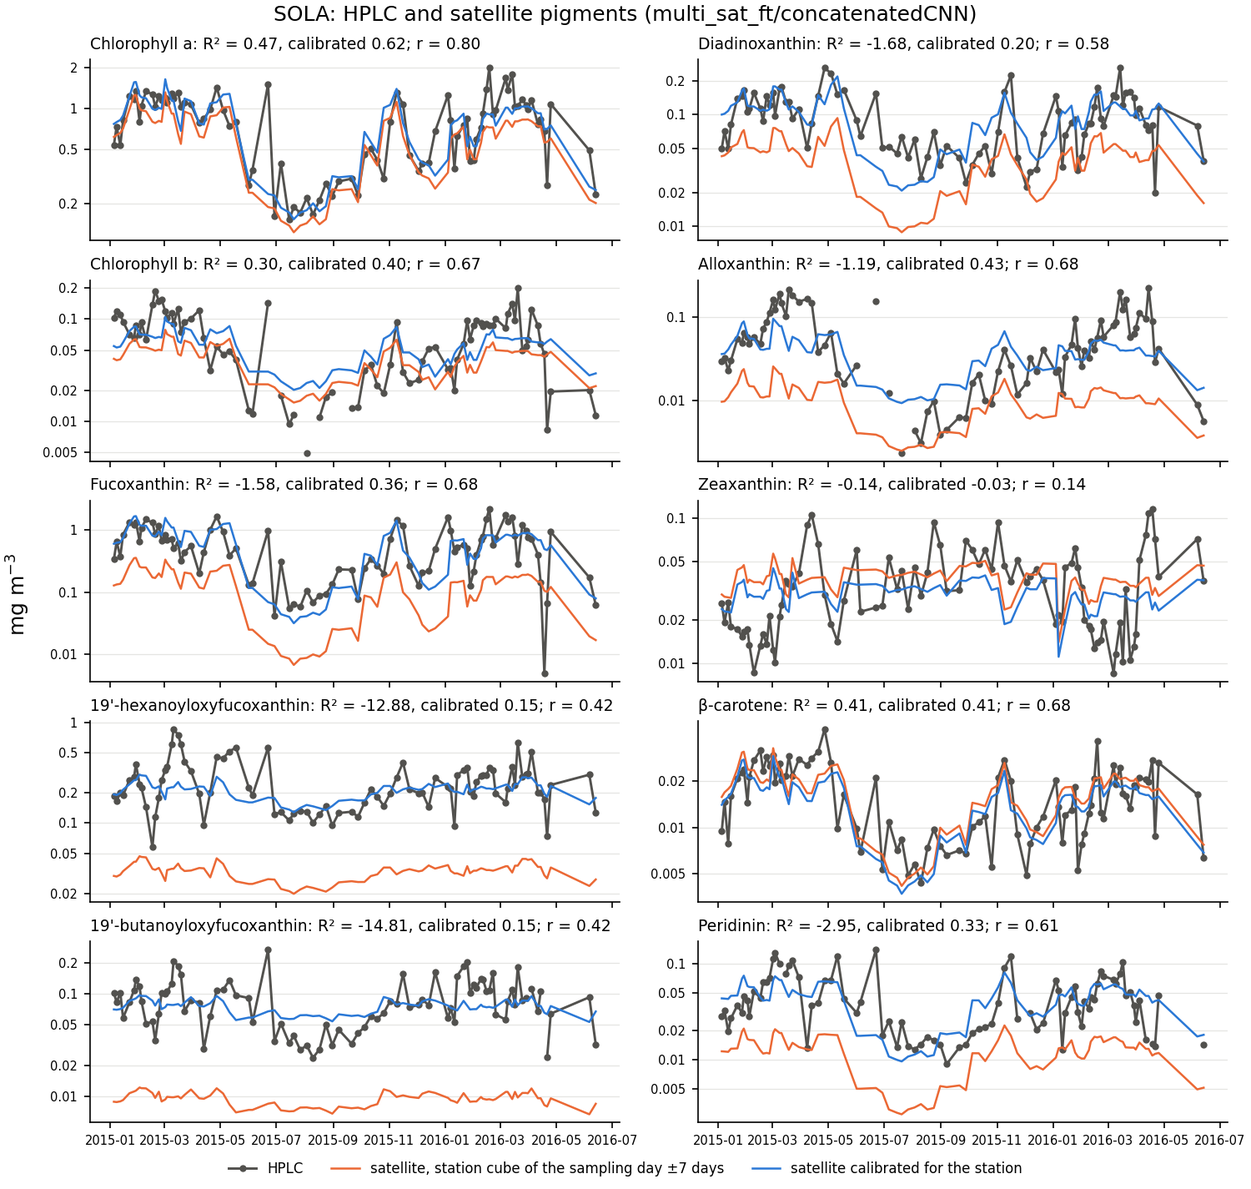
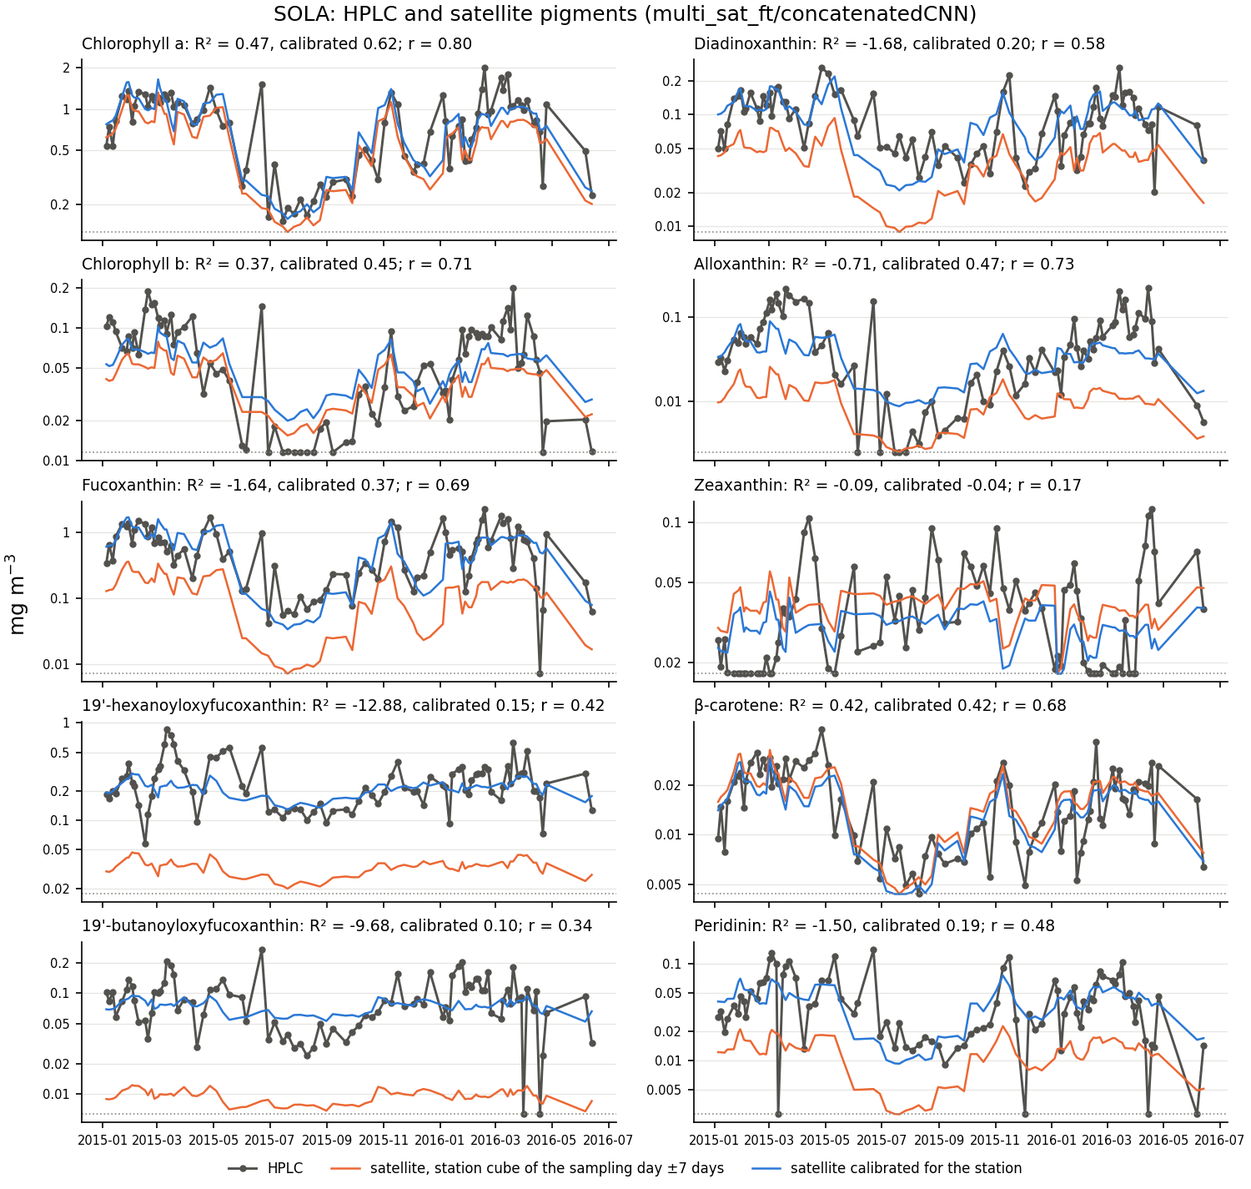
Set pigments below the satellite detection limit to it in the HPLC check

diff --git a/task1/scripts/hplc_check.py b/task1/scripts/hplc_check.py
@@ -11,6 +11,11 @@ Pearson r of ln(pigment), and MAPE and MPE (bias) of the concentrations, as in t
 Writes task1/data/hplc_check.csv and, for the model of the record, task1/figures/hplc_check.png
 (each pigment, all samples) and task1/figures/hplc_series_<station>.png (each pigment over time).
 
+Values below the detection limit of the satellite pigments, HPLC and satellite alike, are set to it
+before scoring: the limit of each pigment is the 5% quantile of the satellite pigments of the whole
+station record (stations_daily.nc of predict_pigments.py), the lowest values the satellite gives
+(task1/data/detection_limits.csv). It is far above the detection limit of HPLC.
+
 The bias of the model depends on the station, so the model of the record is also calibrated per
 station: each pigment times the median HPLC/satellite ratio of all the samples of the station
 (task1/data/station_factors.csv). The calibrated pigments are scored (on the samples the factors
@@ -31,6 +36,8 @@ from pigment_retrieval.predict.predict import Predictor, available_models  # noq
 
 DATA_DIR = Path("task2/PETRIMED/DATA")
 STATION_CUBES = Path("task1/data/station_matchups/datasets/optics.nc")
+STATION_PIGMENTS = Path("task1/data/pigments/stations_daily.nc")
+LIMITS = Path("task1/data/detection_limits.csv")
 OUTPUT = Path("task1/data/hplc_check.csv")
 FACTORS = Path("task1/data/station_factors.csv")
 FIGURES = Path("task1/figures")
@@ -65,6 +72,13 @@ def satellite_inputs(ids: pd.Index) -> xr.Dataset:
         return cube.load().to_dataset("variable").rename(BANDS)
 
 
+def detection_limits() -> pd.Series:
+    """Per pigment, the 5% quantile of the satellite pigments of the whole station record: the
+    lowest values the satellite gives, as the floor Task 1 applies to its Rrs and training pigments."""
+    with xr.open_dataset(STATION_PIGMENTS) as pigments:
+        return pd.Series({p: float(pigments[p].quantile(0.05)) for p in PAIRS}, name="limit")
+
+
 def scores(hplc: pd.DataFrame, predicted: pd.DataFrame) -> pd.DataFrame:
     """Per pigment: R^2 (coefficient of determination) and Pearson r of ln(pigment), MAPE and MPE
     (bias) of the concentrations in %, and the number of samples."""
@@ -78,8 +92,10 @@ def scores(hplc: pd.DataFrame, predicted: pd.DataFrame) -> pd.DataFrame:
     return table[["n", "R2", "r", "MAPE", "MPE"]]
 
 
-def plot_scatter(hplc: pd.DataFrame, predicted: pd.DataFrame, stations: pd.Series, title: str, path: Path) -> None:
-    """Predicted against HPLC pigments, one panel per pigment, coloured by station."""
+def plot_scatter(hplc: pd.DataFrame, predicted: pd.DataFrame, stations: pd.Series, limits: pd.Series, title: str,
+                 path: Path) -> None:
+    """Predicted against HPLC pigments, one panel per pigment, coloured by station, with the detection
+    limit (dotted)."""
     import matplotlib
     matplotlib.use("Agg")
     import matplotlib.pyplot as plt
@@ -91,9 +107,11 @@ def plot_scatter(hplc: pd.DataFrame, predicted: pd.DataFrame, stations: pd.Serie
             at = stations == station
             ax.plot(x[at], y[at], "o", ms=4, color=color, alpha=0.8, mec="white", mew=0.4, label=station)
         both = pd.concat([x, y]).dropna()
-        limits = [both.min() / 1.5, both.max() * 1.5]
-        ax.plot(limits, limits, color="#8a8a86", lw=0.8)
-        ax.set(xscale="log", yscale="log", xlim=limits, ylim=limits)
+        extent = [both.min() / 1.5, both.max() * 1.5]
+        ax.plot(extent, extent, color="#8a8a86", lw=0.8)
+        ax.axvline(limits[pigment], color="#8a8a86", lw=0.8, ls=":")
+        ax.axhline(limits[pigment], color="#8a8a86", lw=0.8, ls=":")
+        ax.set(xscale="log", yscale="log", xlim=extent, ylim=extent)
         ax.set_title(NAMES[pigment], fontsize=9)
         ax.tick_params(labelsize=7)
         ax.spines[["top", "right"]].set_visible(False)
@@ -125,8 +143,9 @@ def label_log_axis(ax) -> None:
 
 
 def plot_series(hplc: pd.DataFrame, predicted: pd.DataFrame, calibrated: pd.DataFrame, dates: pd.Series,
-                title: str, path: Path) -> None:
-    """HPLC, satellite and calibrated satellite pigments of one station over time, one panel per pigment."""
+                limits: pd.Series, title: str, path: Path) -> None:
+    """HPLC, satellite and calibrated satellite pigments of one station over time, one panel per pigment,
+    with the detection limit (dotted)."""
     import matplotlib
     matplotlib.use("Agg")
     import matplotlib.pyplot as plt
@@ -142,6 +161,7 @@ def plot_series(hplc: pd.DataFrame, predicted: pd.DataFrame, calibrated: pd.Data
                 label="satellite, station cube of the sampling day ±7 days")
         ax.plot(dates[order], calibrated.loc[order, pigment], color=CALIBRATED, lw=1.2,
                 label="satellite calibrated for the station")
+        ax.axhline(limits[pigment], color="#8a8a86", lw=0.8, ls=":")
         ax.set_yscale("log")
         label_log_axis(ax)
         ax.set_title(f"{NAMES[pigment]}: R² = {table.loc[pigment, 'R2']:.2f}, calibrated "
@@ -161,35 +181,40 @@ def plot_series(hplc: pd.DataFrame, predicted: pd.DataFrame, calibrated: pd.Data
 
 def main() -> int:
     samples = read_samples()
-    hplc = samples[list(PAIRS.values())].set_axis(list(PAIRS), axis=1)
+    limits = detection_limits()
+    # HPLC zeros are below detection too: set to the limit, as the values below it
+    hplc = samples[list(PAIRS.values())].set_axis(list(PAIRS), axis=1).clip(lower=limits, axis=1)
     x = satellite_inputs(samples.index)
     models = [name for name, (exp, _) in available_models().items()
               if exp["INP_VARS"] == list(BANDS.values()) and "cnn" in name.lower()]
     rows = []
     for name in models:
         predicted = (Predictor(name).predict(x, logged=True)[list(PAIRS)].median(["lat", "lon", "time"])
-                     .to_dataframe()[list(PAIRS)].dropna())
+                     .to_dataframe()[list(PAIRS)].dropna().clip(lower=limits, axis=1))
         rows.append(scores(hplc.loc[predicted.index], predicted).assign(model=name))
         if name == RECORD_MODEL:
             at = predicted.index
-            plot_scatter(hplc.loc[at], predicted, samples.loc[at, "ST"],
+            plot_scatter(hplc.loc[at], predicted, samples.loc[at, "ST"], limits,
                          f"{RECORD_MODEL} against HPLC, station cubes of the sampling day ±7 days",
                          FIGURES / "hplc_check.png")
             factors, calibrated = calibrate(hplc.loc[at], predicted, samples.loc[at, "ST"])
+            calibrated = calibrated.clip(lower=limits, axis=1)
             factors.to_csv(FACTORS, float_format="%.3f")
             rows.append(scores(hplc.loc[at], calibrated).assign(model=f"{name}, calibrated per station"))
             for station in SERIES:
                 ids = at[samples.loc[at, "ST"] == station]
-                plot_series(hplc.loc[ids], predicted.loc[ids], calibrated.loc[ids], samples.loc[ids, "Date"],
+                plot_series(hplc.loc[ids], predicted.loc[ids], calibrated.loc[ids], samples.loc[ids, "Date"], limits,
                             f"{station}: HPLC and satellite pigments ({RECORD_MODEL})",
                             FIGURES / f"hplc_series_{station}.png")
     table = pd.concat(rows).rename_axis("pigment").reset_index()
     OUTPUT.parent.mkdir(parents=True, exist_ok=True)
     table.to_csv(OUTPUT, index=False, float_format="%.3f")
+    limits.rename_axis("pigment").to_csv(LIMITS, float_format="%.4f")
     print(table.query("model == @RECORD_MODEL").drop(columns="model").round(2).to_string(index=False))
     print(table.groupby("model")[["n", "R2", "r", "MAPE"]].median().sort_values("R2").round(2).to_string())
     print(factors.round(2).to_string())
-    print(f"{OUTPUT}, {FACTORS}, {FIGURES}")
+    print(limits.round(4).to_string())
+    print(f"{OUTPUT}, {FACTORS}, {LIMITS}, {FIGURES}")
     return 0
 
 

diff --git a/task1/README.md b/task1/README.md
@@ -84,28 +84,46 @@ python task1/scripts/hplc_check.py
 The metrics are those of the Task 1 paper: the coefficient of determination R² of ln(pigment), and
 the mean absolute percentage error (MAPE) and the bias (mean percentage error, MPE) of the
 concentrations. The Pearson correlation r of ln(pigment) is added: unlike R², it ignores the bias,
-so it shows whether the satellite pigments rise and fall with the HPLC ones. The script writes
-`task1/data/hplc_check.csv` and the figures below. For the model of the record
+so it shows whether the satellite pigments rise and fall with the HPLC ones.
+
+Values below the detection limit are set to it before scoring, in the HPLC and the satellite
+pigments alike. HPLC detects pigments down to about 0.0001 mg m⁻³ (chlorophyll a; Ras et al., 2008,
+https://doi.org/10.5194/bg-5-353-2008), but the satellite pigments come from the satellite
+reflectance and do not go that low, so the limit is set by the satellite: for each pigment, the 5%
+quantile of the satellite pigments of the whole record around the four stations
+(`task1/data/detection_limits.csv`), the same kind of floor that Task 1 applies to its reflectance
+and to the pigments it was trained on. Below it the satellite cannot tell values apart, and the percentage
+errors on such values are meaningless (a satellite 0.02 against an HPLC 0.001 mg m⁻³ is a +1900%
+error). HPLC zeros, below detection too, now count at the limit instead of being left out. The limit
+touches mostly zeaxanthin (91 of the 196 HPLC values are below it), peridinin (36), chlorophyll b
+(30) and alloxanthin (28), and few satellite values (2–7 per pigment).
+
+The script writes `task1/data/hplc_check.csv` and the figures below. For the model of the record
 (`multi_sat_ft/concatenatedCNN`), on all 196 samples:
 
-| Pigment | R² | r | MAPE | Bias (MPE) |
-|---|---|---|---|---|
-| Chlorophyll a | 0.39 | 0.77 | 35% | −19% |
-| Chlorophyll b | 0.26 | 0.60 | 75% | +11% |
-| Diadinoxanthin | 0.24 | 0.68 | 55% | −18% |
-| β-carotene | 0.20 | 0.55 | 48% | +10% |
-| Peridinin | 0.19 | 0.50 | 122% | +52% |
-| Alloxanthin | 0.05 | 0.72 | 73% | −27% |
-| Fucoxanthin | 0.00 | 0.77 | 78% | −41% |
-| Zeaxanthin | −0.69 | −0.06 | 394% | +379% |
-| 19'-butanoyloxyfucoxanthin | −1.63 | 0.36 | 66% | −58% |
-| 19'-hexanoyloxyfucoxanthin | −1.73 | 0.43 | 66% | −60% |
+| Pigment | Detection limit (mg m⁻³) | R² | r | MAPE | Bias (MPE) |
+|---|---|---|---|---|---|
+| Chlorophyll a | 0.125 | 0.36 | 0.77 | 33% | −21% |
+| Diadinoxanthin | 0.009 | 0.18 | 0.68 | 49% | −24% |
+| Peridinin | 0.003 | 0.18 | 0.51 | 83% | +15% |
+| Chlorophyll b | 0.012 | 0.17 | 0.59 | 50% | −13% |
+| β-carotene | 0.004 | 0.14 | 0.56 | 41% | +3% |
+| Alloxanthin | 0.003 | 0.00 | 0.74 | 57% | −41% |
+| Fucoxanthin | 0.007 | −0.02 | 0.77 | 73% | −46% |
+| Zeaxanthin | 0.018 | −0.89 | −0.02 | 85% | +70% |
+| 19'-butanoyloxyfucoxanthin | 0.006 | −1.67 | 0.34 | 64% | −59% |
+| 19'-hexanoyloxyfucoxanthin | 0.017 | −1.80 | 0.42 | 65% | −61% |
 
-- R² is at most 0.39, against 0.70–0.93 in situ and about 0.2 less on satellite data in the paper,
-  mostly because of biases: the satellite pigments rise and fall with the HPLC ones (r = 0.60–0.77
+- The detection limit mostly removes percentage errors on values that the satellite cannot see:
+  without it, the bias of zeaxanthin was +379% and of peridinin +52%, and the median MAPE 70%
+  instead of 60%. It lowers R² a little (median over the 10 pigments 0.12 without it, 0.07 with
+  it), since it narrows the range of the HPLC values, and leaves r unchanged.
+- R² is at most 0.36, against 0.70–0.93 in situ and about 0.2 less on satellite data in the paper,
+  mostly because of biases: the satellite pigments rise and fall with the HPLC ones (r = 0.59–0.77
   for chlorophylls a and b, fucoxanthin, alloxanthin and diadinoxanthin), but fucoxanthin and the
-  haptophyte and pelagophyte pigments come out at half the HPLC values or less, and zeaxanthin
-  about five times higher. Zeaxanthin barely varies: it stays near 0.04 mg m⁻³.
+  haptophyte and pelagophyte pigments come out at about a third of the HPLC values (median ratio
+  0.27–0.32), and zeaxanthin about 1.8 times higher. Zeaxanthin barely varies: it stays near
+  0.04 mg m⁻³, and half of the HPLC values are below what the satellite gives.
 - The underestimation is a coastal one and grows with concentration, as the satellite pigments vary
   less than the HPLC ones. Over time they follow the timing of the BBMO samples and the seasonal
   cycle of the weekly SOLA samples of 2015–2016, but not the size of their peaks. Fucoxanthin and
@@ -121,53 +139,54 @@ so it shows whether the satellite pigments rise and fall with the HPLC ones. The
 
   | Factor (HPLC / satellite) | Chl a | Chl b | Fuco | 19'-hex | 19'-but | Diadino | Allo | Zea | β-car | Peri |
   |---|---|---|---|---|---|---|---|---|---|---|
-  | BBMO | 1.40 | 1.57 | 2.52 | 2.12 | 1.95 | 1.16 | 1.64 | 0.30 | 1.29 | 0.72 |
-  | SOLA | 1.25 | 1.33 | 4.69 | 6.46 | 7.93 | 2.36 | 3.73 | 0.79 | 0.89 | 3.56 |
-  | MOLA | 0.92 | 0.31 | 0.94 | 1.23 | 1.54 | 0.95 | 1.52 | 0.49 | 1.28 | 0.95 |
+  | BBMO | 1.40 | 1.57 | 2.52 | 2.12 | 1.95 | 1.16 | 1.64 | 0.44 | 1.29 | 0.81 |
+  | SOLA | 1.25 | 1.29 | 4.69 | 6.46 | 7.79 | 2.36 | 3.48 | 0.79 | 0.89 | 3.34 |
+  | MOLA | 1.00 | 1.00 | 0.95 | 1.23 | 1.54 | 0.95 | 1.00 | 0.56 | 1.28 | 0.99 |
 
-  Calibrated, the median R² over the 10 pigments goes from 0.12 to 0.58 on the 196 samples, and the
+  Calibrated, the median R² over the 10 pigments goes from 0.07 to 0.57 on the 196 samples, and the
   median satellite/HPLC ratio of every pigment to about 1. The weak pigments gain most
-  (fucoxanthin 0.00 → 0.64, 19'-hexanoyloxyfucoxanthin −1.73 → 0.65, 19'-butanoyloxyfucoxanthin
-  −1.63 → 0.66, peridinin 0.20 → 0.64); zeaxanthin stays poor (0.19), and β-carotene and
+  (fucoxanthin −0.02 → 0.65, 19'-hexanoyloxyfucoxanthin −1.80 → 0.65, 19'-butanoyloxyfucoxanthin
+  −1.67 → 0.61, alloxanthin 0.00 → 0.56); zeaxanthin stays poor (0.09), and β-carotene and
   chlorophyll b gain little. These scores are on the samples the factors come from, so they are
   optimistic: with factors from the other years of each station only, the median R² is 0.54 at BBMO
-  and SOLA together, 0.13 within BBMO and 0.28 within SOLA (part of the gain is removing the offset
+  and SOLA together, 0.13 within BBMO and 0.26 within SOLA (part of the gain is removing the offset
   between stations). One factor corrects the level, not the range: the peaks stay flattened.
 - The calibration is not applied to the satellite record, because the factors follow the water type
   more than the region: the coastal stations need fucoxanthin × 2.5 (BBMO) and × 4.7 (SOLA), the
-  offshore MOLA almost nothing (× 0.94). One regional factor from all the samples, nearly all
-  coastal, would improve the coastal stations a little (median R² at SOLA −1.39 → 0.08) but spoil
-  MOLA (0.40 → −0.02), and the regional maps are mostly open sea. The factors
-  (`task1/data/station_factors.csv`) give the absolute concentrations at the three stations, while a
-  constant factor would not change the trends and seasonal timing of Task 4.
+  offshore MOLA almost nothing (× 0.95). One regional factor from all the samples, nearly all
+  coastal, would improve the coastal stations a little (median R² at SOLA −1.11 → 0.09) but worsen
+  MOLA (0.41 → 0.17, against 0.43 with its own factors), and the regional maps are mostly open sea.
+  The factors (`task1/data/station_factors.csv`) give the absolute concentrations at the three
+  stations, while a constant factor would not change the trends and seasonal timing of Task 4.
 - Of the five CNNs, the one of the record, fine-tuned with satellite matchups, has the best median
-  R² (0.12, against −0.22 to −0.06) and is the best for chlorophylls a and b and fucoxanthin. The
-  others do better for 19'-hexanoyloxyfucoxanthin (r = 0.58–0.60 for three of them, against 0.43)
-  and peridinin, and none for zeaxanthin.
+  R² (0.07, against −0.33 to −0.11) and is the best for chlorophylls a and b and fucoxanthin. The
+  others do better for 19'-hexanoyloxyfucoxanthin (r = 0.60–0.61 for three of them, against 0.42),
+  diadinoxanthin and peridinin, and none for zeaxanthin.
 - The window, 5 × 5 pixels (about 5 km) and the sampling day ±7 days, was the best of those tried
-  (the tests are not kept). With 11 × 9 pixels the median R² is 0.05 and the bias −24%, against
-  0.12 and −18%: the larger area adds offshore water, with less pigment than the coastal stations.
-  3 × 3 pixels reduce the bias a little more but lose 14 samples. The sampling day alone matches
-  only 65 samples and agrees less with HPLC, as daily retrievals are noisy, and the global 4 km
-  product with which the model was fine-tuned overestimates chlorophyll a by about 60% next to the
-  coast.
+  (the tests are not kept, and were scored before the detection limit was set). With 11 × 9 pixels
+  the median R² was 0.05 and the bias −24%, against 0.12 and −18%: the larger area adds offshore
+  water, with less pigment than the coastal stations. 3 × 3 pixels reduce the bias a little more
+  but lose 14 samples. The sampling day alone matches only 65 samples and agrees less with HPLC, as
+  daily retrievals are noisy, and the global 4 km product with which the model was fine-tuned
+  overestimates chlorophyll a by about 60% next to the coast.
 
 <p align="center">
   <img src="report/hplc_check.png" width="80%" alt="Satellite against HPLC pigments at SOLA, BBMO and MOLA">
 </p>
 
-*`multi_sat_ft/concatenatedCNN` on the station cubes (sampling day ±7 days) against HPLC, all samples.*
+*`multi_sat_ft/concatenatedCNN` on the station cubes (sampling day ±7 days) against HPLC, all
+samples; dotted, the detection limit, to which the values below it are set.*
 
 <p align="center">
   <img src="report/hplc_series_BBMO.png" width="80%" alt="HPLC and satellite pigments at BBMO, 2004-2014">
 </p>
 
 *HPLC and satellite pigments at BBMO, 2004–2014, as retrieved and calibrated for the station; R² and
-r of this station.*
+r of this station; dotted, the detection limit.*
 
 <p align="center">
   <img src="report/hplc_series_SOLA.png" width="80%" alt="HPLC and satellite pigments at SOLA, 2015-2016">
 </p>
 
 *HPLC and satellite pigments at SOLA, 2015–2016, as retrieved and calibrated for the station; R² and
-r of this station.*
+r of this station; dotted, the detection limit.*

diff --git a/README.md b/README.md
@@ -87,14 +87,17 @@ python task3/scripts/validate_chain.py
   MOLA on the Catalan and French coast, and VIDA in the Gulf of Trieste.
 - Against the 196 HPLC samples of SOLA, BBMO and MOLA (5 × 5 pixels around the station, sampling
   day ±7 days), the satellite pigments rise and fall with the HPLC ones (r = 0.77 for chlorophyll a
-  and fucoxanthin, on ln values) but are biased, so R², the metric of the paper, is at most 0.39:
-  fucoxanthin and the haptophyte and pelagophyte pigments come out at half the HPLC values or less,
-  and zeaxanthin about five times higher, without following the HPLC one.
+  and fucoxanthin, on ln values) but are biased, so R², the metric of the paper, is at most 0.36:
+  fucoxanthin and the haptophyte and pelagophyte pigments come out at about a third of the HPLC
+  values, and zeaxanthin about 1.8 times higher, without following the HPLC one.
+- Values below the detection limit of the satellite pigments (the lowest 5% of the satellite record
+  at the stations, far above that of HPLC) are set to it, HPLC and satellite alike. This removes
+  meaningless percentage errors (zeaxanthin bias +379% → +70%) and changes R² little.
 - The underestimation is coastal and grows with concentration (13–21% of HPLC for those pigments in
   the SOLA blooms, nearly unbiased offshore at MOLA). It damps trends and seasonal amplitudes
   without changing their sign or timing, and it distorts the composition that Task 2 uses.
 - Calibrated per station with HPLC (one factor per pigment and station), the median R² rises from
-  0.12 to 0.58 (0.54 with factors from other years). The factors depend on the water type
+  0.07 to 0.57 (0.54 with factors from other years). The factors depend on the water type
   (fucoxanthin × 4.7 at SOLA, × 0.94 offshore at MOLA), so they are not applied to the regional maps.
 - The CNN of the record, fine-tuned with satellite matchups, is the best of the Task 1 CNNs at the
   stations. Small windows (5 km) and ±7 days around the sample work best: larger areas add offshore
@@ -108,6 +111,9 @@ python task3/scripts/validate_chain.py
   times one factor, the ratio of its median HPLC share to its median satellite share (fucoxanthin
   × 4.3, zeaxanthin × 0.19). Then Synechococcus holds (r = 0.56 monthly, 0.87 for the seasonal
   cycle), mostly as a low-chlorophyll signal.
+- The correlations of the plankton groups need no detection limit: the models never predict near
+  the smallest abundance detected (one read), and setting values below it to it changes r by less
+  than 0.001.
 - The biodiversity indicator of PETRIMED is still to come; this task will be rewritten with it.
 
 **Task 3 — Plankton groups at VIDA** ([details](task3/README.md))

diff --git a/task4/README.md b/task4/README.md
@@ -180,13 +180,14 @@ four periods (left) and monthly around BBMO (right).*
   al., 2019), so the trends above start in 2003.
 - *A floor near 0.1 mg m⁻³.* The model never gives chlorophyll a much below 0.1 mg m⁻³, while the
   most oligotrophic Mediterranean averages 0.06 mg m⁻³ (Martínez-Fornos et al., 2026). The Balearic
-  summer sits on it (median 0.12 mg m⁻³ in July–August, 73% of the summer values below 0.12), and so
-  does a quarter of the NW Mediterranean summer: clear summer waters are overestimated and their
+  summer sits on it (median 0.12 mg m⁻³ in July–August, 73% of the summer values below 0.12, near
+  the detection limit of chlorophyll a in the HPLC check of Task 1), and so does a quarter of the NW
+  Mediterranean summer: clear summer waters are overestimated and their
   trends damped.
 - *Composition at the coast.* Against the HPLC samples of the stations (Task 1), the satellite
-  chlorophyll a follows well (r = 0.77, R² = 0.39) but zeaxanthin does not (r = −0.06), the
-  haptophyte and pelagophyte pigments only weakly and at half their HPLC values or less (r =
-  0.36–0.43), and the highest values are missed: the composition signal of 2.1 is weaker at the
+  chlorophyll a follows well (r = 0.77, R² = 0.36) but zeaxanthin does not (r = −0.02), the
+  haptophyte and pelagophyte pigments only weakly and at about a third of their HPLC values (r =
+  0.34–0.42), and the highest values are missed: the composition signal of 2.1 is weaker at the
   coast than the biomass signal. The concentrations at the coast are too low and vary less than in
   situ, which damps trends and seasonal amplitudes without changing their sign or timing. There are no
   HPLC samples around the Balearic Islands to check them there.

diff --git a/task2/README.md b/task2/README.md
@@ -55,6 +55,12 @@ Correlation between predicted and observed abundance, for the psbO PSTs best pre
 - The models follow the timing of these PSTs at BBMO but miss the size of their peaks.
 - Prasinoxanthin, which Task 1 does not estimate, can be replaced by 0.30 × chlorophyll b, their
   ratio at SOLA: r changes by 0.06 at most.
+- Unlike the pigments of Task 1, these scores need no detection limit. Pelagophyceae and Bathycoccus
+  are not detected (zero reads) in 15 and 30 of the 100 BBMO samples, and the smallest abundance
+  detected, one read, is 90–2700 RPKM depending on the PST; but the models never predict below
+  1000 RPKM, and r is computed on the abundances, as in PETRIMED, not on their logarithm. Setting
+  the observed and predicted values below that limit to it changes r by less than 0.001 (and by
+  0.03 at most with a limit at the lowest 5% of the satellite predictions), so it is not applied.
 
 <p align="center">
   <img src="report/insitu_check.png" width="80%"

diff --git a/task3/README.md b/task3/README.md
@@ -123,6 +123,9 @@ The other groups with models, all at 0.6% of their domain or less, are not follo
   eukaryotes, against 12%).
 - Without the correction of Task 2 the results are similar or worse (MOCH 0.70 and 0.22,
   Synechococcus −0.27 and 0.46).
+- No detection limit is applied, as for the plankton groups of Task 2: the VIDA shares are given to
+  0.01%, and setting the observed and predicted values below 0.01% to it changes r by less than
+  0.01.
 - The data cannot tell whether the error comes from the pigments of Task 1 or from the models of
   Task 2, but the result agrees with the low transferability of the models between ecosystems found
   by Ramond et al. (2026), and with the proposal's choice (Risk 3) to analyse the plankton groups in
